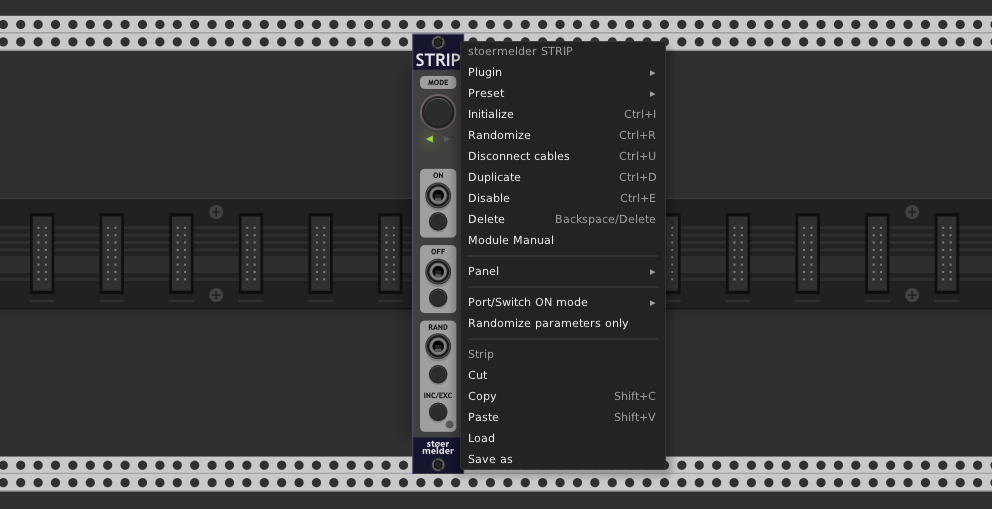
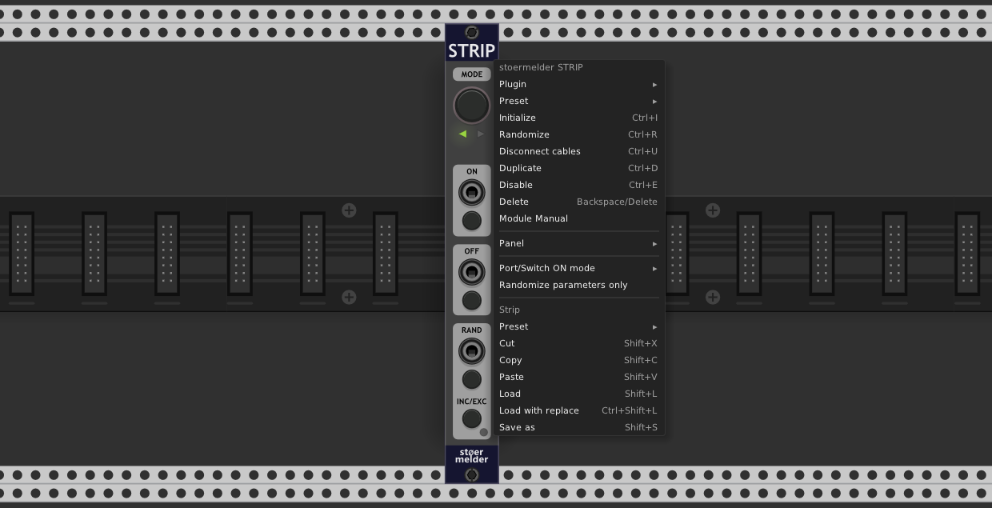
Strip - updated manual

diff --git a/docs/Strip.md b/docs/Strip.md
@@ -34,9 +34,16 @@ A useful feature of STRIP is its ability to save strips to files and load them a
 
 ![STRIP context menu](./Strip-context.png)
 
-All settings of the modules, all cables (including color) between modules within the strip and all parameter mappings (only for supported modules, e.g. by VCV MIDI-MAP or stoermelder CV-MAP) are saved. Also, copy and paste is available, by option in the context menu or by using keyboard shortcuts Shift+C and Shift+V. When using left-only or right-only mode only affected modules will be saved and loaded, even if a different mode was used for saving or copying. Existing modules will be moved right and left, respectively, to provide enough empty space for newly loaded or copied modules.
+All settings of the modules, all cables (including color) between modules within the strip and all parameter mappings (only for supported modules, e.g. by VCV MIDI-MAP or stoermelder CV-MAP) are saved. Also, copy and paste is available, by option in the context menu or by using keyboard shortcuts Shift+C and Shift+V.  
+Added in v1.8.0: The option _Load with replace_ removes all attached modules directly next to STRIP before the stored modules from the vcvss-file will be added.
+
+When using left-only or right-only mode only affected modules will be saved and loaded, even if a different mode was used for saving or copying. Existing modules will be moved right and left, respectively, to provide enough empty space for newly loaded or copied modules.  
 
 ![STRIP copy and paste](./Strip-copy.gif)
+
+Added in v1.8.0: The _Preset_ context menu option lists all vcvss-files stored in the folder \<Rack-user-folder\>/Stoermelder-P1/presets/Strip. The \<Rack-user-folder\> can be opened with the top-most subemnu item or according to the [offical documentation](https://vcvrack.com/manual/FAQ#where-is-the-rack-user-folder). Subfolders are not supported at the moment.
+
+![STRIP presets](./Strip-presets.png)
 
 The file-format "vcvss" for storing strips is very close to Rack's own format for storing patches or module presets. Compatibility in future versions should be no problem as long Rack will be able to load module preset files from older Rack versions.
 
